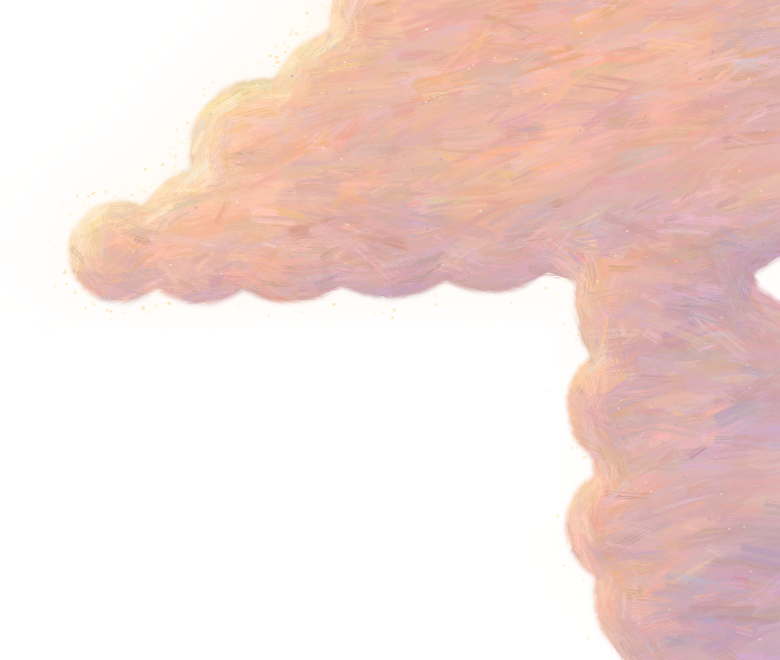
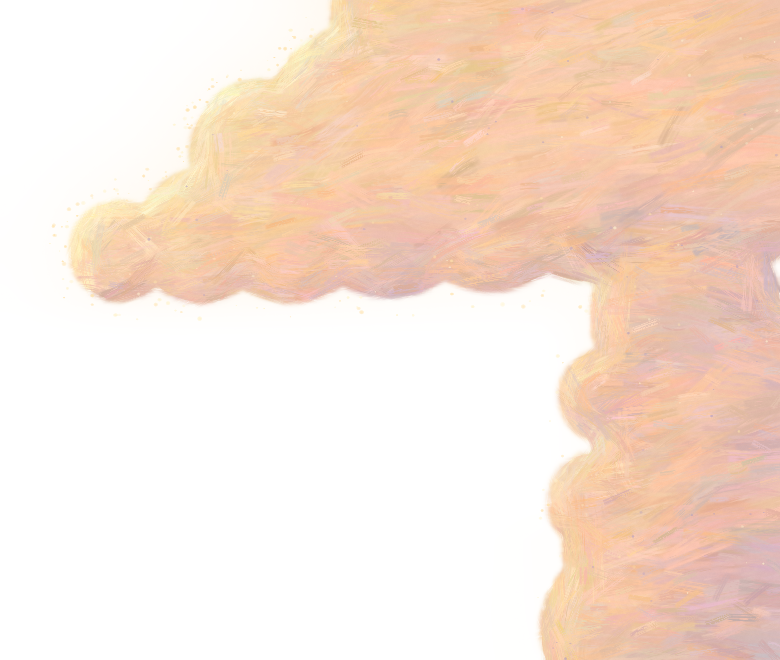
Painted test (iteration): paint_still_v2, the bold dose (brushed sky, big cumulus, strong tree, far haze, fern pot)
Claude-Session: https://claude.ai/code/session_01YGLGMqbgdpycjemYZL3aoL

diff --git a/video/docs/studies/2026-10-28_city_posters/paint_test/NOTES.md b/video/docs/studies/2026-10-28_city_posters/paint_test/NOTES.md
@@ -135,3 +135,15 @@ const PAINT = paintSet(manifest);                      // {sky, cloud, tree, pie
 - **The sky PNG is 8-bit with stroke dither.** It has not been through `check_banding.py` or the master encode yet.
 - **Flat input times are hand-picked** (1.0 s, after the flood). A shape that animates (a pane switching on, a wiper)
   must stay out of a painted piece, or it needs a bake per state.
+
+## v2: the bold dose (2026-10-29: "obvious at 400 px wide")
+- **`paint_still_v2.png`** (= `deliverables/tests/painted_scene1_still_v2.png`; `compare_v2.jpg`: flat, v1, v2, the motion reference): the same engine, a second bake (`scripts/look/paint/v2s1_v2.json` -> `public/paint/v2s1_v2/`), chosen with `PaintS1 set: 'v2'`; v1 still renders unchanged (max difference 0). `PaintProvider set` + `PaintedLayer piece="tree"` (pieces by name) let one scene carry several doses.
+- **Sky:** bigger, more opaque strokes (r up to 72 px, a dry pass), warmer and more golden toward the sun, cooler and bluer up top. The paint calms in the band: on the caption's words (x 150-800, y 330-480) the most any pixel changes is 10/255 (mean 3.3).
+- **Cumulus:** towers on the right beside the words (from x 849, never behind them). It has a lit golden-peach top and a rose-violet shade, a painted glow haze on its lit side, dry-brush edges and about 280 specks. **Tree:** 18 painted leaf clusters, each lit on the sun's side, with a deep shade side; richer than v2, not paler (mean luma 148 against v2's 173, value spread 33 against 19).
+- **Two more pieces:** the far roofs and the calm tower as a soft painted haze, each on its own plane (+4, +3), with the sun disc left crisp; and the fern pot at the bottom edge. About 40 % of the frame's pixels change; she, the people, the door, the "Google" sign, Pip and the captions are untouched.
+- **Weak spots of v2:**
+  - the far roofs read a little muddy-pink;
+  - the cloud's shade side is more pink than violet;
+  - the tower must clear the widest caption line (v2's 3.0 s line reaches about x 900), so a film needs a calm box per caption page;
+  - bake 14 s, 2.2 MB of PNGs; the render cost is unchanged.
+
